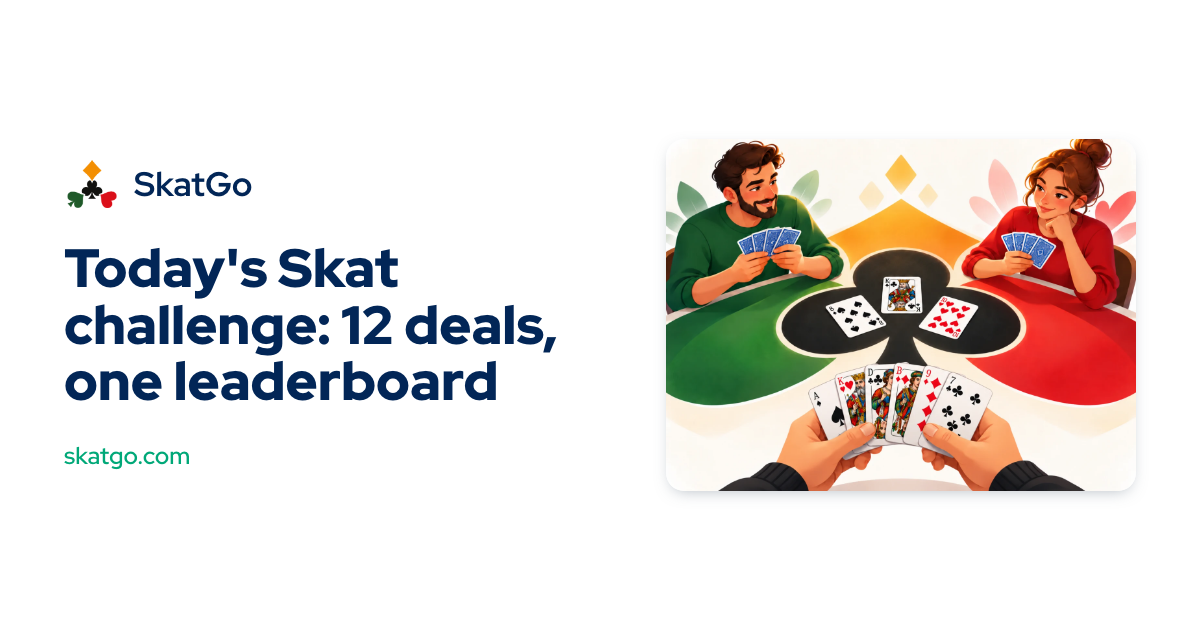
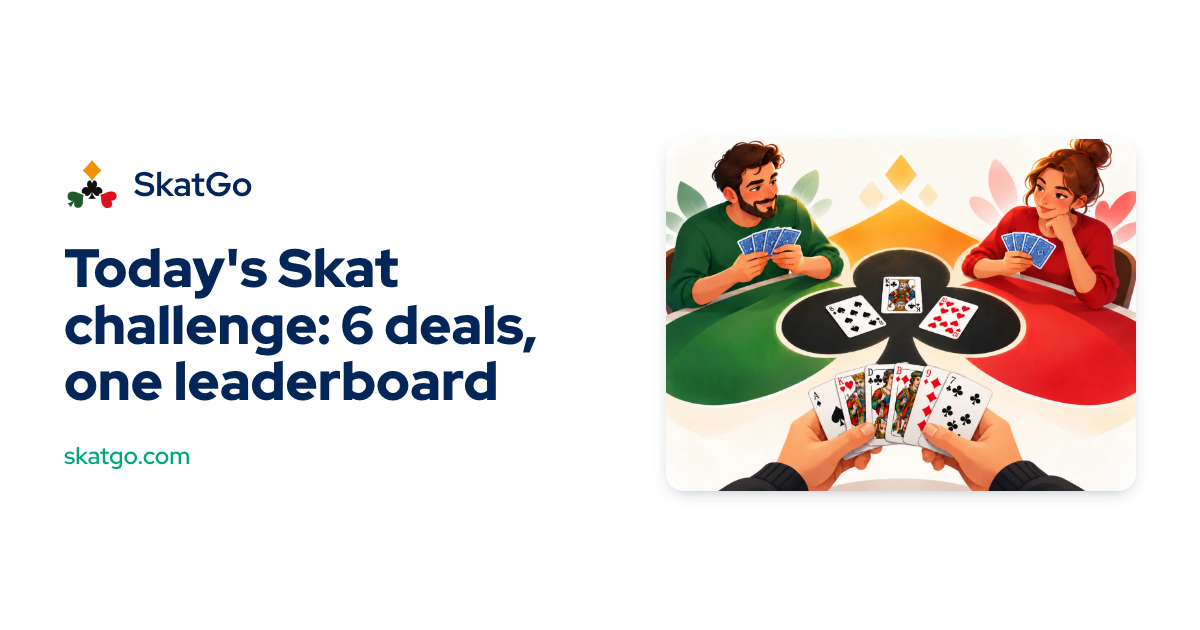
SKATGO-62 每日赛改为每天 6 副 (#57)
* SKATGO-62 plan, ac, grill

* SKATGO-62 每日赛改为每天 6 副

* charter改了，然后今天的牌请重新生成

SKATGO-62 rework: product.md says 6 deals a day. The production dealing time in operations.md follows after it is measured during today's re-deal.

* SKATGO-62 rework record

---------

Changed region(s): [[0.2775, 0.4825, 0.4625, 0.573]]

diff --git a/app/src/lib/skat/tournament.ts b/app/src/lib/skat/tournament.ts
@@ -7,8 +7,8 @@ import type { Card } from './cards'
 import type { Bidding, Game, Phase, Played, Seat } from './game'
 import type { Declaration } from './value'
 
-/** Deals in one day's tournament. */
-export const DAILY_DEALS = 12
+/** Deals in one day's tournament (six since SKATGO-62: a day is a short round, not an evening). */
+export const DAILY_DEALS = 6
 
 /** New deals start at midnight in this time zone. */
 export const DAILY_TIME_ZONE = 'Europe/Berlin'

diff --git a/multiplayer/src/daily.ts b/multiplayer/src/daily.ts
@@ -63,7 +63,7 @@ export function dayOf(now: number): string {
 }
 
 /** A day's deals: fresh crypto-shuffled decks; the first dealer is random, then the deal passes
- *  clockwise, so the player sits in each position four times. */
+ *  clockwise, so the player sits in each position equally often (twice in six deals). */
 export function dealDay(): DealSpec[] {
   let dealer = randomInt(3) as Seat
   return Array.from({ length: DAILY_DEALS }, () => {

diff --git a/.intentfold/tickets/SKATGO-62/handoff.md b/.intentfold/tickets/SKATGO-62/handoff.md
@@ -1,0 +1,61 @@
+# SKATGO-62 handoff
+
+## What changed
+
+- **`app/src/lib/skat/tournament.ts`**: `DAILY_DEALS = 6`, down from 12. Everything follows this one constant:
+  - the server deals the day, checks deal numbers and knows when a day is over (`multiplayer/src/daily.ts`);
+  - the titles, meta descriptions, the page text and "Spiel n von m" take it as a parameter.
+
+  No copy had 12 written into it.
+- **`multiplayer/src/daily.ts`**: a comment. The dealer still moves clockwise every deal, so the player sits in each position twice in six deals (it was four times in twelve).
+- **`app/public/og/daily-{de,en}.png`**: the preview pictures, which had "12 Spiele" / "12 deals" in them, were redrawn by SKATGO-50's `og.mjs` from the built pages' new titles. They now read "6 Spiele" / "6 deals".
+- **`.intentfold/tickets/SKATGO-62/wipe.cjs`**: the production step for cap4, run the way the human decided (grill Q1, Q2).
+  - Without `--yes` it lists every day's deal count and every day's entries.
+  - With `--yes` it deletes all `daily_entries` and all `daily_deals` in one transaction.
+  - It needs only `pg` and `DATABASE_URL`, so it runs as a Render one-off job in the multiplayer service's own image.
+
+The ticket's constraint and AC 3 were changed on the human's word ("不用考虑现有的纪录和牌局，现有纪录和牌局可以删除"); this is recorded in a ticket comment.
+
+## AC results
+
+Local web 55062, multiplayer 56062, database 57062. The fresh database was dealt by the new code: each day took about 15.5 s against about 31 s before. Headed Playwright (`tmp/daily62.mjs`) at desktop 1280×820 and phone 375×812. The day was driven through the page's API: the player bid on and played a Grand Hand every deal, so the scores are not all 0.
+
+1. **A new day shows 6 deals; 6 deals finish it and reach the board.** Met at both sizes.
+   - `/de/taeglich` reads "Das tägliche Skat-Turnier: 6 Spiele, eine Rangliste"; `/en/daily` reads "Today's Skat challenge: 6 deals, one leaderboard".
+   - Both descriptions name 6, and the preview image is the redrawn `daily-{de,en}.png`.
+   - `status.of` is 6. The day was finished after 6 deals, with no seventh.
+   - After a nickname, the player is on the board with −1596.
+2. **The AI comparison and the total cover exactly 6 deals.** Met at both sizes.
+   - `/api/daily/state` has 6 deals and 6 AI results; the total of −1596 is the sum of the six deals' scores.
+   - The result table on `/daily` has 6 rows, and its total row reads −1596.
+3. **No 12-deal day or record remains after the release.**
+   - Checked locally: the local day was made a 12-deal day with 4 finished entries. `wipe.cjs` listed them on a dry run, then deleted 4 entries and 2 days. The next request answered `day_preparing` and re-dealt today and tomorrow, 6 deals each, with no entries left.
+   - Production is checked at deploy, in cap4. The order is the human's (grill Q2):
+     1. deploy multiplayer;
+     2. run `wipe.cjs` as a dry run, then with `--yes`;
+     3. send one request to start the re-deal;
+     4. run a read-only listing, which must show only today and tomorrow, 6 deals each, and no entries;
+     5. deploy web.
+
+No page errors.
+
+**Mechanical defence**: passed in full — typecheck, build, 101 tests, bundle (23 chunks), tokens, literal grep, SSR link, `check:seo -- --built` (44 indexable, 4 noindex), `test:seo` 25/25. `npm --prefix multiplayer run check`: 21/21.
+
+## Deviations
+
+- **Production**: every daily record is deleted at release, instead of keeping the dealt 12-deal days (the ticket was amended on the human's word). No code reads a 12-deal day.
+- **Local Docker disk**: the colima VM's disk was full (40 GB, shared with other projects).
+  - To start this ticket's database I removed only this project's local acceptance databases for tickets already merged and closed (`skatgo-multiplayer-db-570{35…57, 59}` with their anonymous volumes) and SKATGO-61's local check image.
+  - I kept 57058 (ticket 58 under review), 57061 (61 not yet closed), the main checkout's 3222, and everything belonging to other projects.
+
+## Environment
+
+- Ports 55062 / 56062 / 57062. Web and multiplayer are left running for review; the local database container `skatgo-multiplayer-db-57062` is running.
+- The worktree's `.env` port lines were pointed at the ticket ports for local acceptance only. No env key added, changed or removed.
+
+## Residual
+
+- **Charter drift, not edited**:
+  - `product.md`: "every day the same 12 deals";
+  - `operations.md`: the production preparation time of "about 6–6.5 min" is for 12 deals; roughly half now.
+- **Docker disk**: the VM still has only about 1 GB free. The largest volume (13 GB) belongs to another project.

diff --git a/.intentfold/tickets/SKATGO-62/plan.md b/.intentfold/tickets/SKATGO-62/plan.md
@@ -1,0 +1,28 @@
+# SKATGO-62 plan
+
+## 代码里已有、工单没说的
+
+- **副数只有一个常量**：`app/src/lib/skat/tournament.ts` 的 `DAILY_DEALS = 12`。
+  - 服务端用它发牌、校验副号、判断一天打完（`multiplayer/src/daily.ts`）；
+  - 页面的标题、描述、介绍、「第 n 副，共 m 副」都通过参数引用它，文案里没有写死的 12。
+- **写死「12」的只有每日赛的分享预览图**（`app/public/og/daily-{de,en}.png`，标题「12 Spiele」）。图是 SKATGO-50 的 `og.mjs` 按页面 H1 画的，可以重画。
+- **座位轮转**：`dealDay()` 让发牌人每副顺时针换一个，所以 6 副时玩家在每个位置各坐两次（原来四次）。代码里那句注释要跟着改。
+- **线上的日子**：今天和明天在部署时已经是 12 副。按人的新指示，部署后删除线上所有每日赛记录和牌局（SKATGO-48 的先例：Render 一次性任务，先空跑再删除）。删完后一次请求就会触发重新发牌，生产上每天约 3 分钟。
+- **charter 过时（不改，交给人）**：`product.md` 写着「every day the same 12 deals」。
+
+## 路线
+
+1. `DAILY_DEALS = 6`。把 `daily.ts` 里「每个位置四次」的注释改成两次。
+2. 用 `.intentfold/tickets/SKATGO-50/og.mjs` 从本地构建重画 `/de/taeglich`、`/en/daily` 的预览图。
+3. 跑单元测试和 multiplayer check。本地新库会按 6 副发牌，用来验收。
+4. 部署时（cap4，经人批准）的顺序：
+   1. 先部署 multiplayer；
+   2. 用 Render 一次性任务空跑，再删除所有 `daily_entries` 和 `daily_deals`；
+   3. 发一次请求触发重新发牌，用只读任务确认今天和明天都是 6 副、没有旧记录；
+   4. 再部署 web，跑部署后检查。
+
+## Redline 查对
+
+- **operations.md Redline 2**（验收检查不得修改生产数据）：验收只在本地做。生产删除不属于验收，是人明确授权的数据操作，部署时执行。
+- **operations.md Redline 5**：不改表结构，不加环境变量，不改服务配置。
+- **ui.md / engineering.md**：不加设计值，不加依赖。预览图由脚本生成，不手画。

diff --git a/.intentfold/tickets/SKATGO-62/grill.md b/.intentfold/tickets/SKATGO-62/grill.md
@@ -1,0 +1,26 @@
+# SKATGO-62 grill
+
+Grill：human。改动本身只是一个常量，下面四个问题都关于上线和数据。
+
+1. **删多少？**
+   - **建议**：删除线上全部每日赛记录：所有日子的牌（`daily_deals`），以及所有玩家记录（`daily_entries`，含已打完的和排行榜昵称）。之后今天和明天按 6 副重新发牌。
+   - **理由**：你说过「现有纪录和牌局可以删除」；全部删掉后不用写任何兼容 12 副的代码，昨天的排行榜也就是空的。
+   - **待定**
+2. **什么时候删？**
+   - **建议**：先部署 multiplayer，部署成功后立刻用 Render 一次性任务删除（先空跑看清要删什么，再正式删），然后发一次请求让服务按 6 副重新发牌，最后部署 web。
+   - **理由**：要是先删再部署，旧版本会马上重新发出 12 副；SKATGO-48 就是这么做的。
+   - **代价**：生产上重新发牌每天约 3 分钟，这期间 `/daily` 显示「正在准备」。
+   - **待定**
+3. **私人牌桌和自由对局受影响吗？**
+   - **建议**：不受影响，它们不用每日赛的表。
+   - **待定**
+4. **分享预览图要重画吗？**
+   - **建议**：要。每日赛页的预览图上写着「12 Spiele」，用 SKATGO-50 的脚本按新标题重画德文、英文两张。
+   - **待定**
+
+## 回答
+人 2026-10-09 通过 AskUserQuestion 回答：
+
+1. **全部删除**：所有日子的牌和所有玩家记录，今天和明天按 6 副重发；不写兼容 12 副的代码。
+2. **部署 multiplayer 后立刻删**：Render 一次性任务先空跑再删，发一次请求触发重新发牌，最后部署 web。
+3. 和 4. **按建议**：私人牌桌和自由对局不动；重画德文、英文两张每日赛预览图。

diff --git a/.intentfold/tickets/SKATGO-62/ac.md b/.intentfold/tickets/SKATGO-62/ac.md
@@ -1,0 +1,30 @@
+# SKATGO-62 AC check plan
+
+Local web 55062, multiplayer 56062, database 57062. The fresh local database is dealt by the new code. Headed Playwright at desktop 1280×820 and phone 375×812 (`isMobile`, `hasTouch`). The day is driven through the page's own API with passes and first legal cards, as SKATGO-48's check did; no game is played for its own sake.
+
+## AC1 — A new day shows 6 deals; 6 deals finish the day and reach the board
+
+- **Check**: `/de/taeglich` and `/en/daily`:
+  - the H1 and meta description name 6;
+  - the button reads "Spiel 1 von 6" or the start;
+  - the preview image (`og:image`) is the redrawn one.
+- **Check**: drive the day: after deal 6 the day is finished (`status.finished`), with no seventh deal. Set a nickname; the player's row is on the board.
+- **True when** all hold at both sizes.
+
+## AC2 — The AI comparison and the total cover exactly 6 deals, matching each deal
+
+- **Check**: `/api/daily/state`: `deals` and `benchmarks` have 6 entries each, and `totals[0]` equals the sum of the six deals' scores.
+- **Check**: the result table on `/daily` has 6 rows, and its total row equals that sum.
+- **True when** both hold.
+
+## AC3 — No 12-deal day or record remains in production after the release
+
+- **Check** (at deploy, cap4):
+  - a read-only Render job lists `daily_deals` with the length of each day's deals, and the count of `daily_entries`;
+  - after the deletion and the re-deal: only today and tomorrow, 6 deals each, and no entry from before.
+- **Check** (locally, now): a database holding a 12-deal day, after the same deletion step, is re-dealt as 6 on the next request.
+- **True when** both hold.
+
+## Mechanical defence
+
+As `engineering.md` Tools names it, plus `npm --prefix multiplayer run check`.

diff --git a/.intentfold/charter/product.md b/.intentfold/charter/product.md
@@ -14,7 +14,7 @@ exercises that are judged on the spot and explain every wrong answer. Overall pr
 the course map, and the last lesson is a whole game against two computer players. The aim, in the
 human's words: 「只要进度走完，就能短时间把skat学会，学到可以和已经会的人打牌的水平」.
 
-A daily Skat tournament at `/daily`: every day the same 12 deals for every player, each played
+A daily Skat tournament at `/daily`: every day the same 6 deals for every player (SKATGO-62), each played
 against two computer players and scored by Seeger-Fabian; one entry per player per day; scores are
 the server's, from the cards actually played. After each deal the player sees how the computer, named "AI", played the same deal
 from their seat (SKATGO-42), in a table of both that grows by one row per deal, also on the day's page

diff --git a/.intentfold/tickets/SKATGO-62/rework.md b/.intentfold/tickets/SKATGO-62/rework.md
@@ -1,0 +1,10 @@
+# SKATGO-62 rework
+
+Changes after the first delivery (`handoff.md`, commit `7ca4da9`).
+
+1. **"charter改了，然后今天的牌请重新生成"** (`b58bd4d`)
+   - The human asked for the Charter drift reported in the handoff to be fixed: `product.md` now says 6 deals a day.
+   - `operations.md`'s production dealing time is corrected after this release, once today's re-deal has measured it on the production instance (a Charter-only follow-up).
+   - "今天的牌请重新生成" is the approval to land and release: production's daily records are deleted and today and tomorrow re-dealt with 6, as grill Q1/Q2 decided.
+
+Rechecked: the mechanical defence once more on the final branch. The AC were not affected by a Charter-only change.
